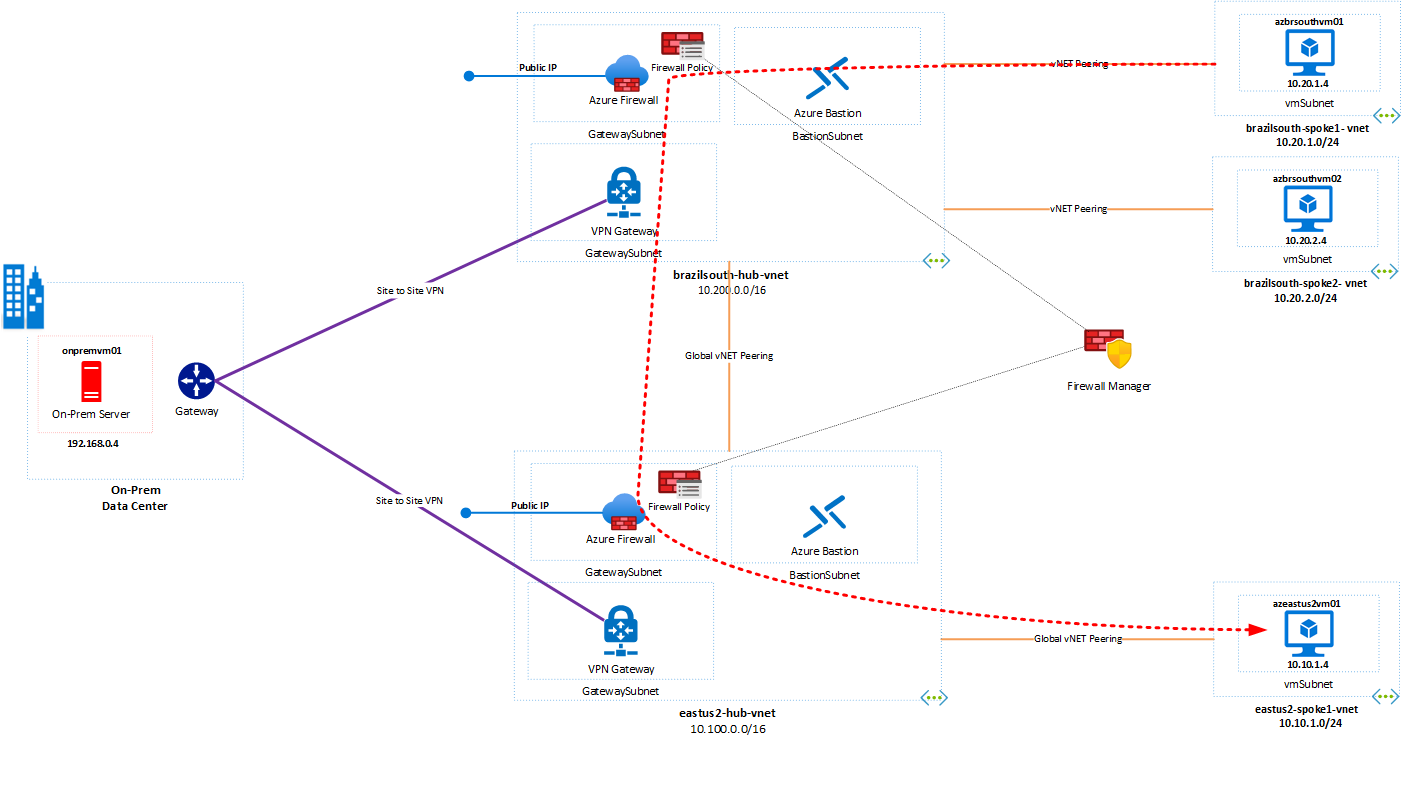
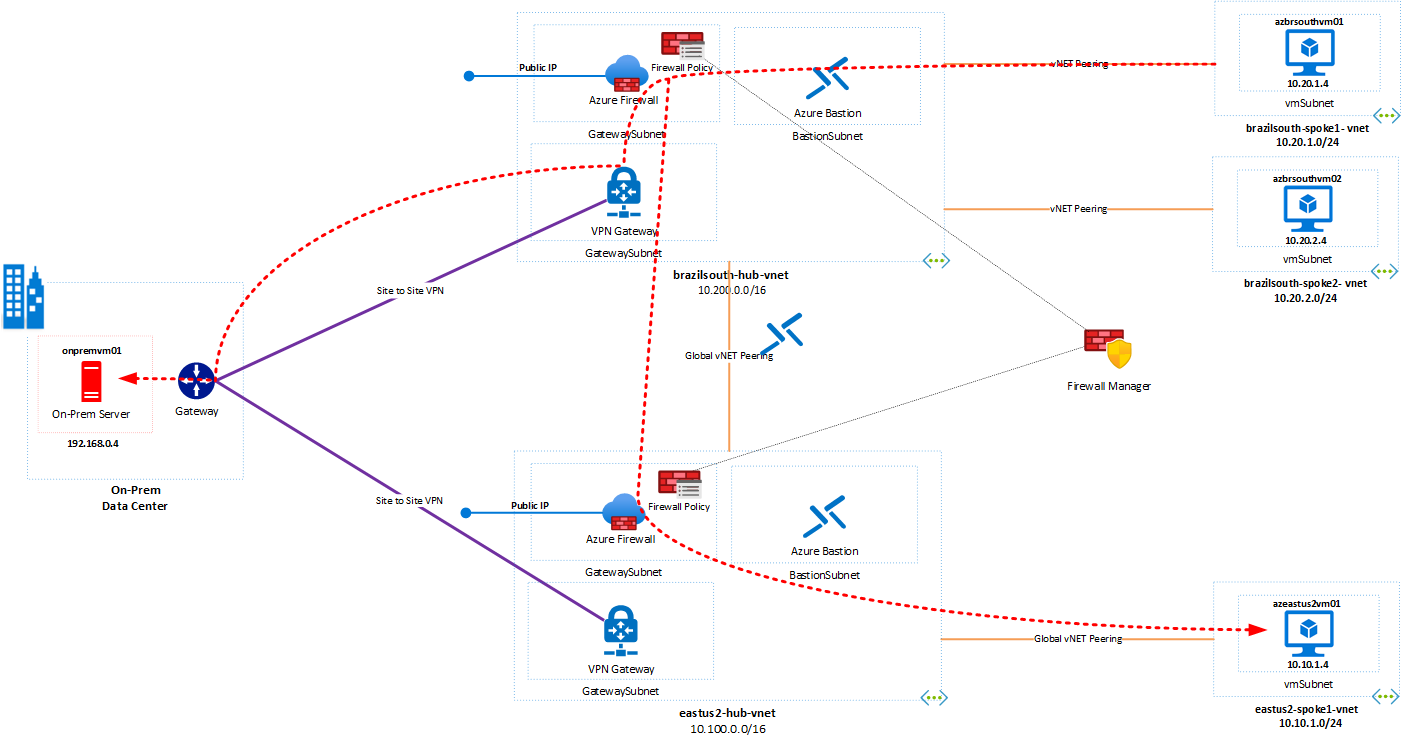
updates

diff --git a/Student/02-inter-forwarding.md b/Student/02-inter-forwarding.md
@@ -4,8 +4,9 @@
 
 ## Introduction
 
-The first step in our journey will be to take a set up a communication between two spokes virtual networks through Azure Firewall. At the end of the challenge, you will complete the setup and will have the Intra-region forwarding in place.
+Now you will explore other resoruces to complete the challenge and estabilsh the communication between other region and local datacenter.  At the end of the challenge, you will complete the setup and will have this scenario in place.
 
+![Intra-region Forwarding Architecture](images/Inter-region-Forwarding.png)
 
 ## Description
 
@@ -74,7 +75,7 @@ TargetPort = tostring(TargetPortInt)
 | project TimeGenerated, msg_s, Protocol, SourceIP,TargetIP,Action,Resource
 ```
 
-![Azure Log Analytics](images/firewall-workspace-inter1.PNG)
+![Azure Log Analytics](images/firewall-workbook-inter1.PNG)
 
 In the portal, navigate to the **Firewall Policies** named **azfw-policy-std**. Click on "Network Rules" under "Settings", and click "+ Add a rule collection " at the top of the page. 
 
